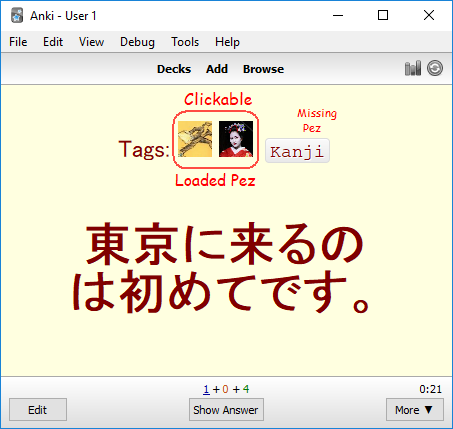
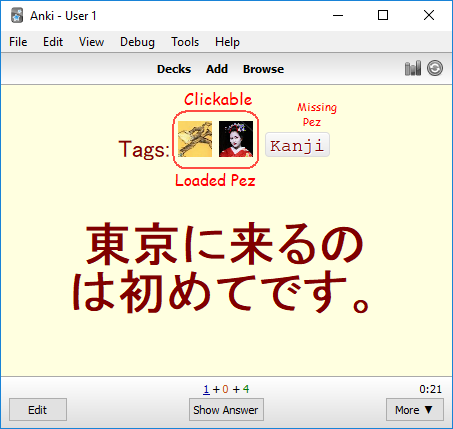
small changes to styles and readme

Changed region(s): [[0.5872, 0.2424, 0.7417, 0.3939]]

diff --git a/src/pez_dispenser/pez_dispenser.py b/src/pez_dispenser/pez_dispenser.py
@@ -2,7 +2,7 @@
 # Copyright: (C) 2019 Lovac42
 # Support: https://github.com/lovac42/PezDispenser
 # License: GNU GPL, version 3 or later; http://www.gnu.org/copyleft/gpl.html
-# Version: 0.0.1
+# Version: 0.0.2
 # Prototype version, low priority
 
 
@@ -14,8 +14,21 @@
 CSS = """
 <style>
 img.pez_icon {
-  cursor:pointer;
-  height:1.2em;
+    cursor:pointer;
+    box-shadow: inset 0px 1px 0px 0px #ffffff;
+    background: -webkit-gradient(linear, left top, left bottom, color-stop(0.05, #f9f9f9), color-stop(1, #e9e9e9) );
+    background-color: #f9f9f9;
+    border-radius: 4px;
+    border: 1px solid #dcdcdc;
+    display: inline-block;
+    position:relative;
+    top:0.4em;
+    height:1em;
+}
+kbd.pez_text {
+    font-size:0.6em;
+    height: 1em;
+    line-height: 0.8em;
 }
 </style>
 """
@@ -32,20 +45,18 @@ ANKI21=version.startswith("2.1.")
 
 
 def render_sections(self, template, context, _old):
-    arr=[]; kbd=[];
-    deck=context['Deck']
+    arr_img=[]; arr_kbd=[];
     for t in context['Tags'].split():
-        img="_tag_%s.ico"%t.replace(':','_')
-        path=os.path.join(mw.pm.profileFolder(),"collection.media",img)
-        img=img if os.path.exists(path) else None
-        html,imgType=getHtmlTags(img,t,deck)
-        if imgType:
-            arr.append(html)
+        ico="_tag_%s.ico"%t.replace(':','_')
+        path=os.path.join(mw.pm.profileFolder(),"collection.media",ico)
+        ico=ico if os.path.exists(path) else None
+        html,img=getHtmlTags(ico,t,context['Deck'])
+        if img:
+            arr_img.append(html)
         else:
-            kbd.append(html)
-    template=re.sub("{{Tags}}", ''.join(arr+kbd), template)
-    template+=CSS
-    return _old(self, template, context)
+            arr_kbd.append(html)
+    template=re.sub("{{Tags}}", ''.join(arr_img+arr_kbd), template)
+    return _old(self, template+CSS, context)
 
 Template.render_sections = wrap(Template.render_sections, render_sections, 'around')
 
@@ -61,7 +72,7 @@ onclick='ct_click("%s")'
 title="%s" />"""%(img,t,d,t,t)
         else:
             html="""
-<kbd ondblclick='ct_dblclick("%s","%s")' 
+<kbd class="pez_text" ondblclick='ct_dblclick("%s","%s")' 
 onclick='ct_click("%s")'>%s</kbd>"""%(t,d,t,t)
 
     else:
@@ -73,7 +84,7 @@ onclick='click_func("tagclick_%s")'
 title="%s" />"""%(img,d,t,t,t)
         else:
             html="""
-<kbd ondblclick='dblclick_func("_tagdblclick_%s_tagdblclick_%s")' 
+<kbd class="pez_text" ondblclick='dblclick_func("_tagdblclick_%s_tagdblclick_%s")' 
 onclick='click_func("tagclick_%s")'>%s</kbd>"""%(d,t,t,t)
 
     return html,img

diff --git a/src/pez_dispenser/__init__.py b/src/pez_dispenser/__init__.py
@@ -1,0 +1,1 @@
+from . import pez_dispenser

diff --git a/src/pez_dispenser_addon.py b/src/pez_dispenser_addon.py
@@ -1,0 +1,1 @@
+import pez_dispenser

diff --git a/README.md b/README.md
@@ -1,2 +1,43 @@
-# PezDispenser
-AnkiAddon: Tags To Icons
+# PezDispenser: Tags To Icons
+
+## About:
+This addon replaces tag with icons. Each icon must be loaded into the user's media folder individually, like loading a Pez dispenser, hence the title.
+
+
+## Screenshots:
+<img src="https://github.com/lovac42/PezDispenser/blob/master/screenshots/screen.png?raw=true">
+<img src="https://github.com/lovac42/PezDispenser/blob/master/screenshots/screen2.png?raw=true">
+
+
+
+## Icon:
+
+### Image Quality:
+Make sure images are large enough to allow for zooming in.
+
+### File Location:
+Place icons in profile media folder.
+
+### Filename Extension:
+Icons can be any web image (jpg, png), but renamed to ```.ico```.
+
+### Name Format:
+File must follow strict filename prefixed by ```_tag_``` and ends with ```.ico```.
+e.g. japanese = ```_tag_japanese.ico```  
+
+:(colon) are replaced by _(underscore)
+e.g. science::chemistry = ```_tag_science__chemistry.ico```  
+
+
+## Compatibility Tweeks Required:
+For Clickable Tags
+
+### Anki 2.1
+<a href="https://ankiweb.net/shared/info/380714095">Clickable Tags v1.0 by luoliyan</a>  
+<img src="https://github.com/lovac42/PezDispenser/blob/master/screenshots/click21.png?raw=true">  
+
+
+### Anki 2.0
+<a href="https://ankiweb.net/shared/info/1321188674">Clickable Tags on Reviewer by Abdolmahdi Saravi</a>  
+<img src="https://github.com/lovac42/PezDispenser/blob/master/screenshots/click20.png?raw=true">  
+
